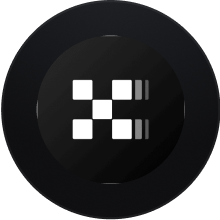
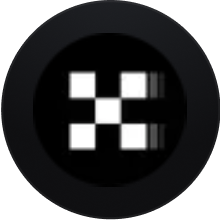
updated

Changed region(s): [[0.1636, 0.1364, 0.7364, 0.7091], [0.8182, 0.4636, 0.8455, 0.5455], [0.4636, 0.8182, 0.5455, 0.8455]]

diff --git a/src/components/Information.tsx b/src/components/Information.tsx
@@ -30,7 +30,7 @@ export const Information = ({
       initial={{ x: '-50%', opacity: 0 }}
       animate={{ x: 0, opacity: 1 }}
       exit={{ opacity: 0, x: '50%' }}
-      transition={{ duration: 0.2, delay: 1, ease: 'linear' }}
+      transition={{ duration: 0.1, delay: 0, ease: 'linear' }}
     >
       <div className="flex items-center gap-3 mb-3">
         <Image src={logo} alt={name} width={56} height={56} />
@@ -50,7 +50,8 @@ export const Information = ({
             <AccordionTrigger className="hover:no-underline items-start ">
               <div className="w-full">
                 <p className="text-left mb-2 text-gray-400">
-                  {relations.length} connections point
+                  {relations.length} bridge connection
+                  {relations.length > 1 ? 's' : ''}
                 </p>
 
                 <div className="flex items-center justify-between -mr-4">

diff --git a/src/app/page.tsx b/src/app/page.tsx
@@ -1,19 +1,13 @@
-import { getBridgeVolume } from '@/api';
-// import EthereumCanvas from '@/components/Canvas';
 import { Hero } from '@/components/Hero';
 import { data } from '@/lib/data';
 
 export default async function Home() {
-  const test = await getBridgeVolume();
-  console.log(test);
-
   return (
     <main className="max-w-[1440px] mx-auto py-5 overflow-hidden">
       <div className="lg:flex gap-4 ">
-        <div className="hidden w-1/5 lg:block">Sidebar Here</div>
+        {/* <div className="hidden w-1/5 lg:block">Sidebar Here</div> */}
         <div className="w-full">
           <Hero data={data} />
-          {/* <EthereumCanvas /> */}
         </div>
       </div>
     </main>

diff --git a/src/components/InnerCircle.tsx b/src/components/InnerCircle.tsx
@@ -25,7 +25,7 @@ export const InnerCircle = ({ logo, slug, name, isMount }: Props) => {
         }}
         exit={{ scale: 1, opacity: 0 }}
         animate={{ scale: 1, opacity: 1 }}
-        transition={{ duration: 0.8 }}
+        transition={{ duration: 0.2 }}
       >
         <div className="relative h-full w-full z-10 rounded-full bg-gradient-to-tr from-black to-[#1f1d22] drop-shadow-lg ">
           <Image fill src={logo} alt={name} className="object-cover" />

diff --git a/src/components/OuterCircle.tsx b/src/components/OuterCircle.tsx
@@ -35,7 +35,7 @@ export const OuterCircle = ({
           left: `calc(50% + ${xPos}px)`,
           top: `calc(50% + ${yPos}px)`,
         }}
-        transition={{ duration: 0.8, ease: 'linear' }}
+        transition={{ duration: 0.2, ease: 'linear' }}
         exit={{ scale: 1, opacity: 1, top: '50%', left: '50%' }}
         whileHover={{ scale: 1.1 }}
       >
